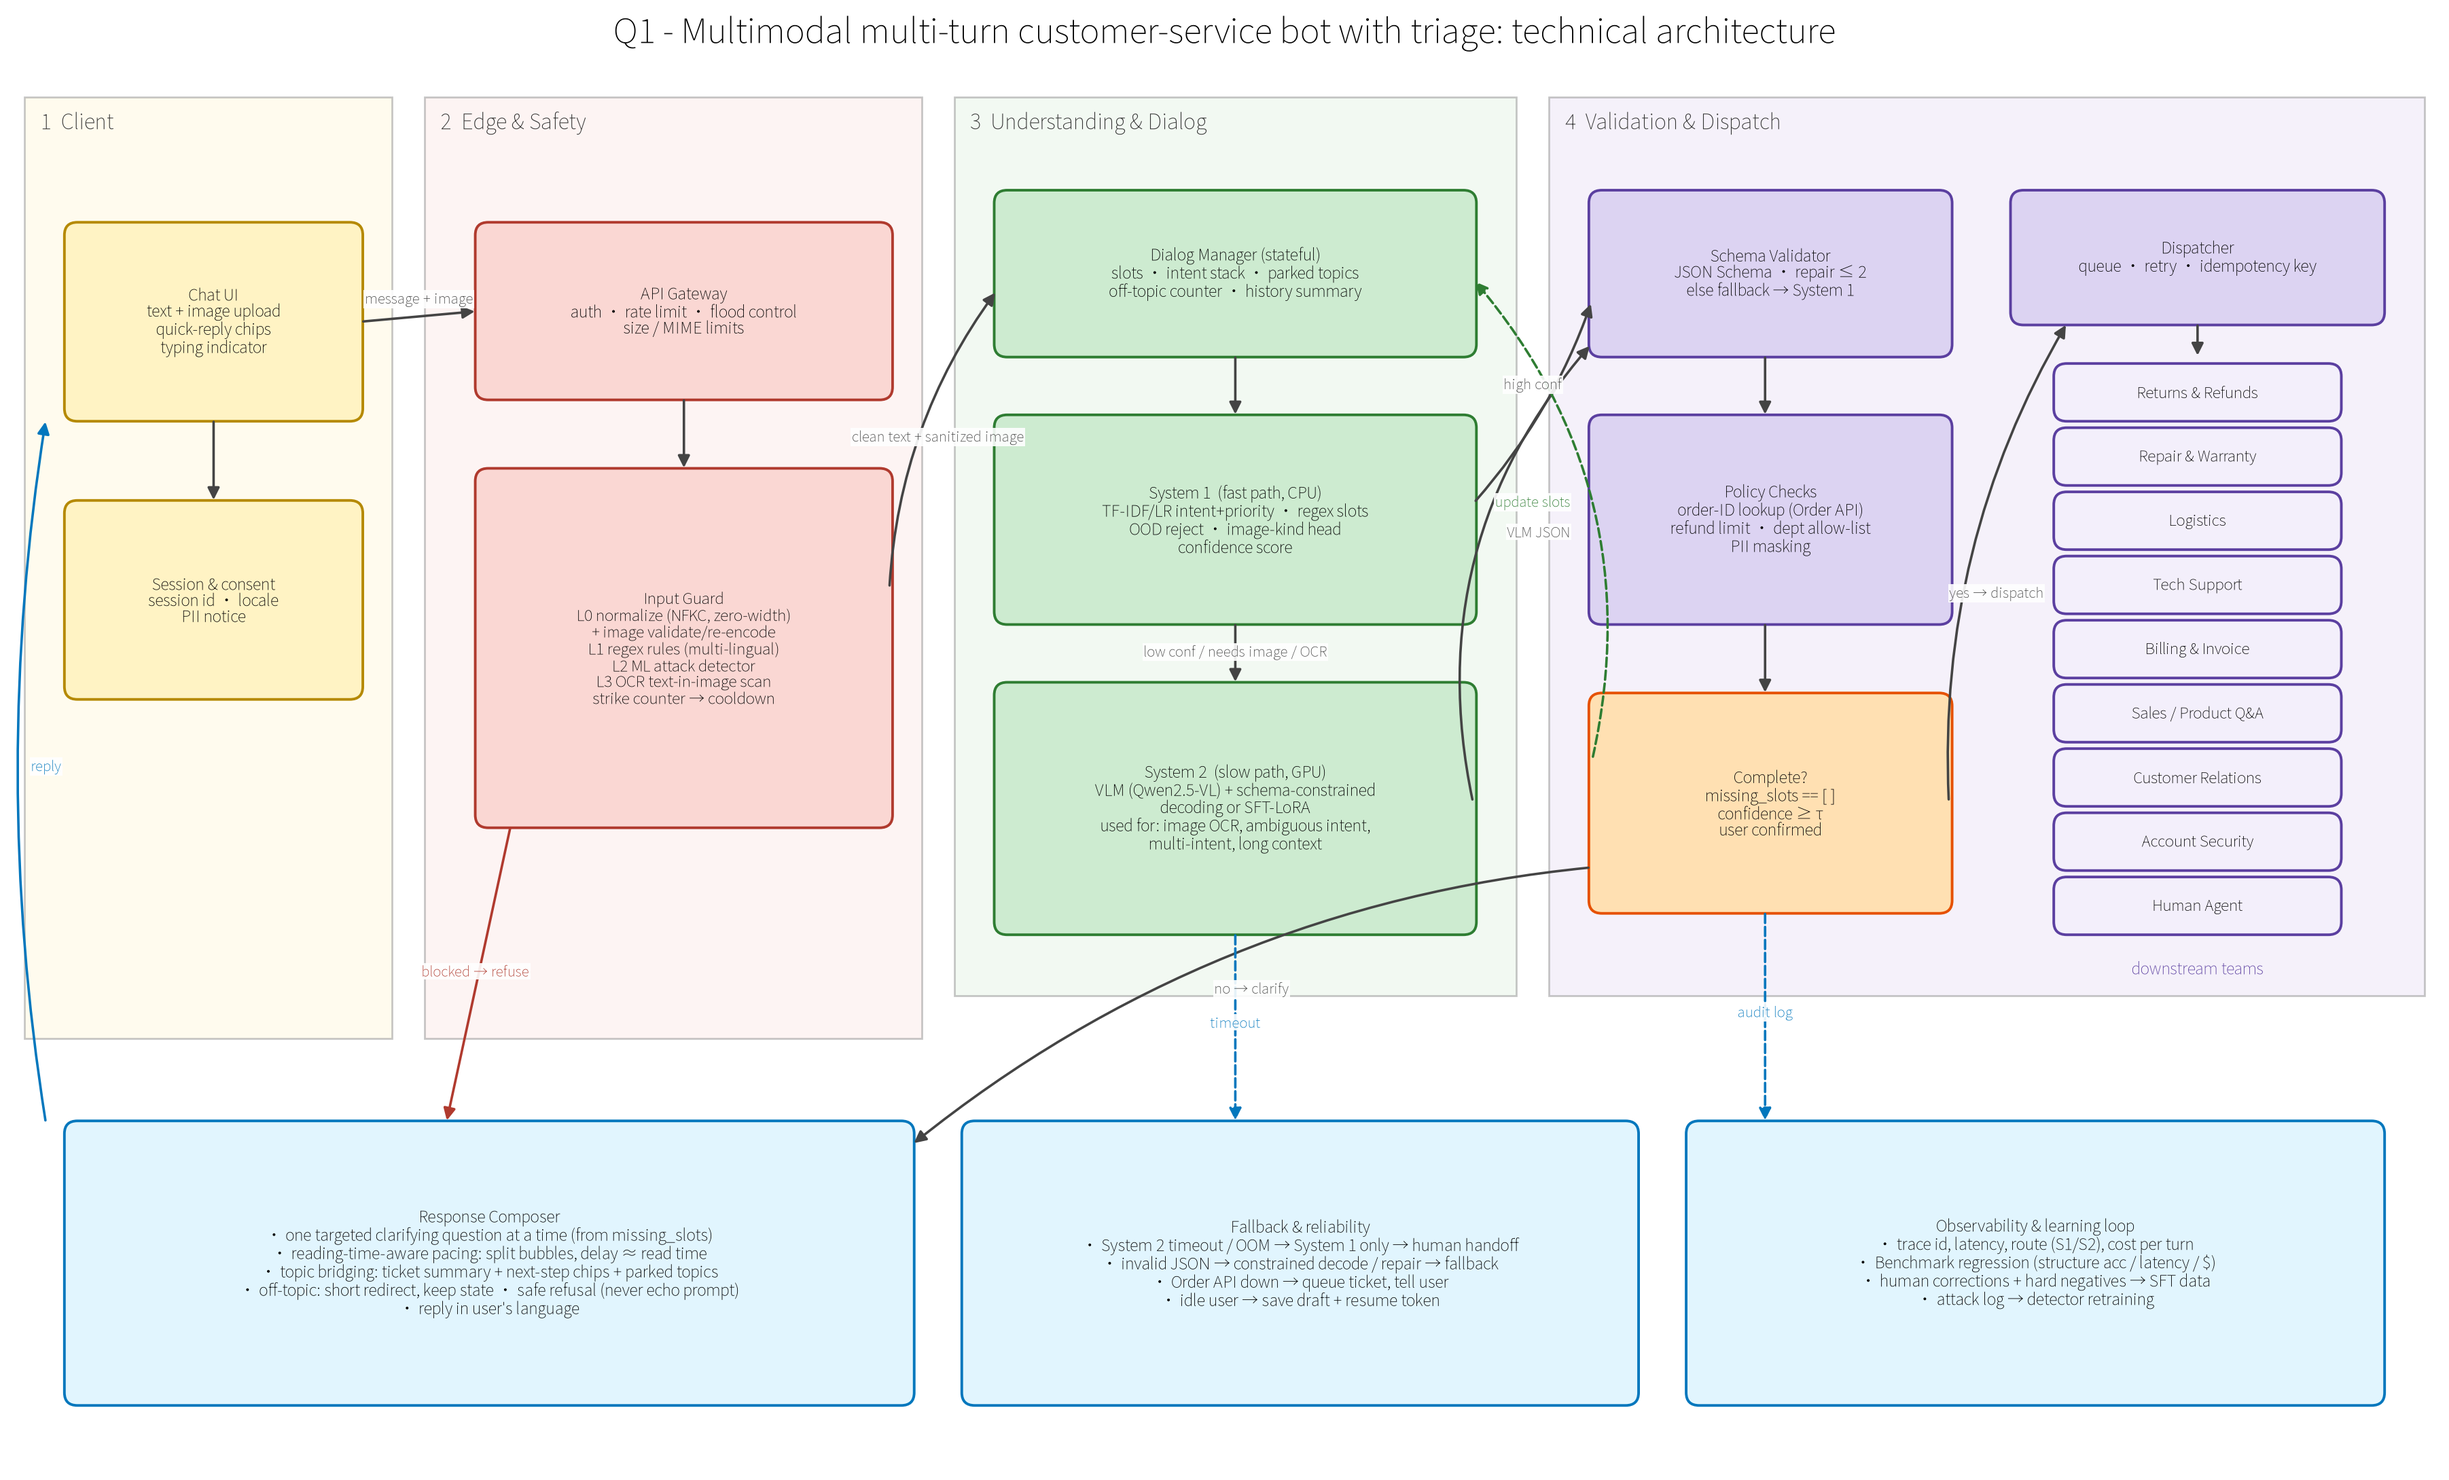
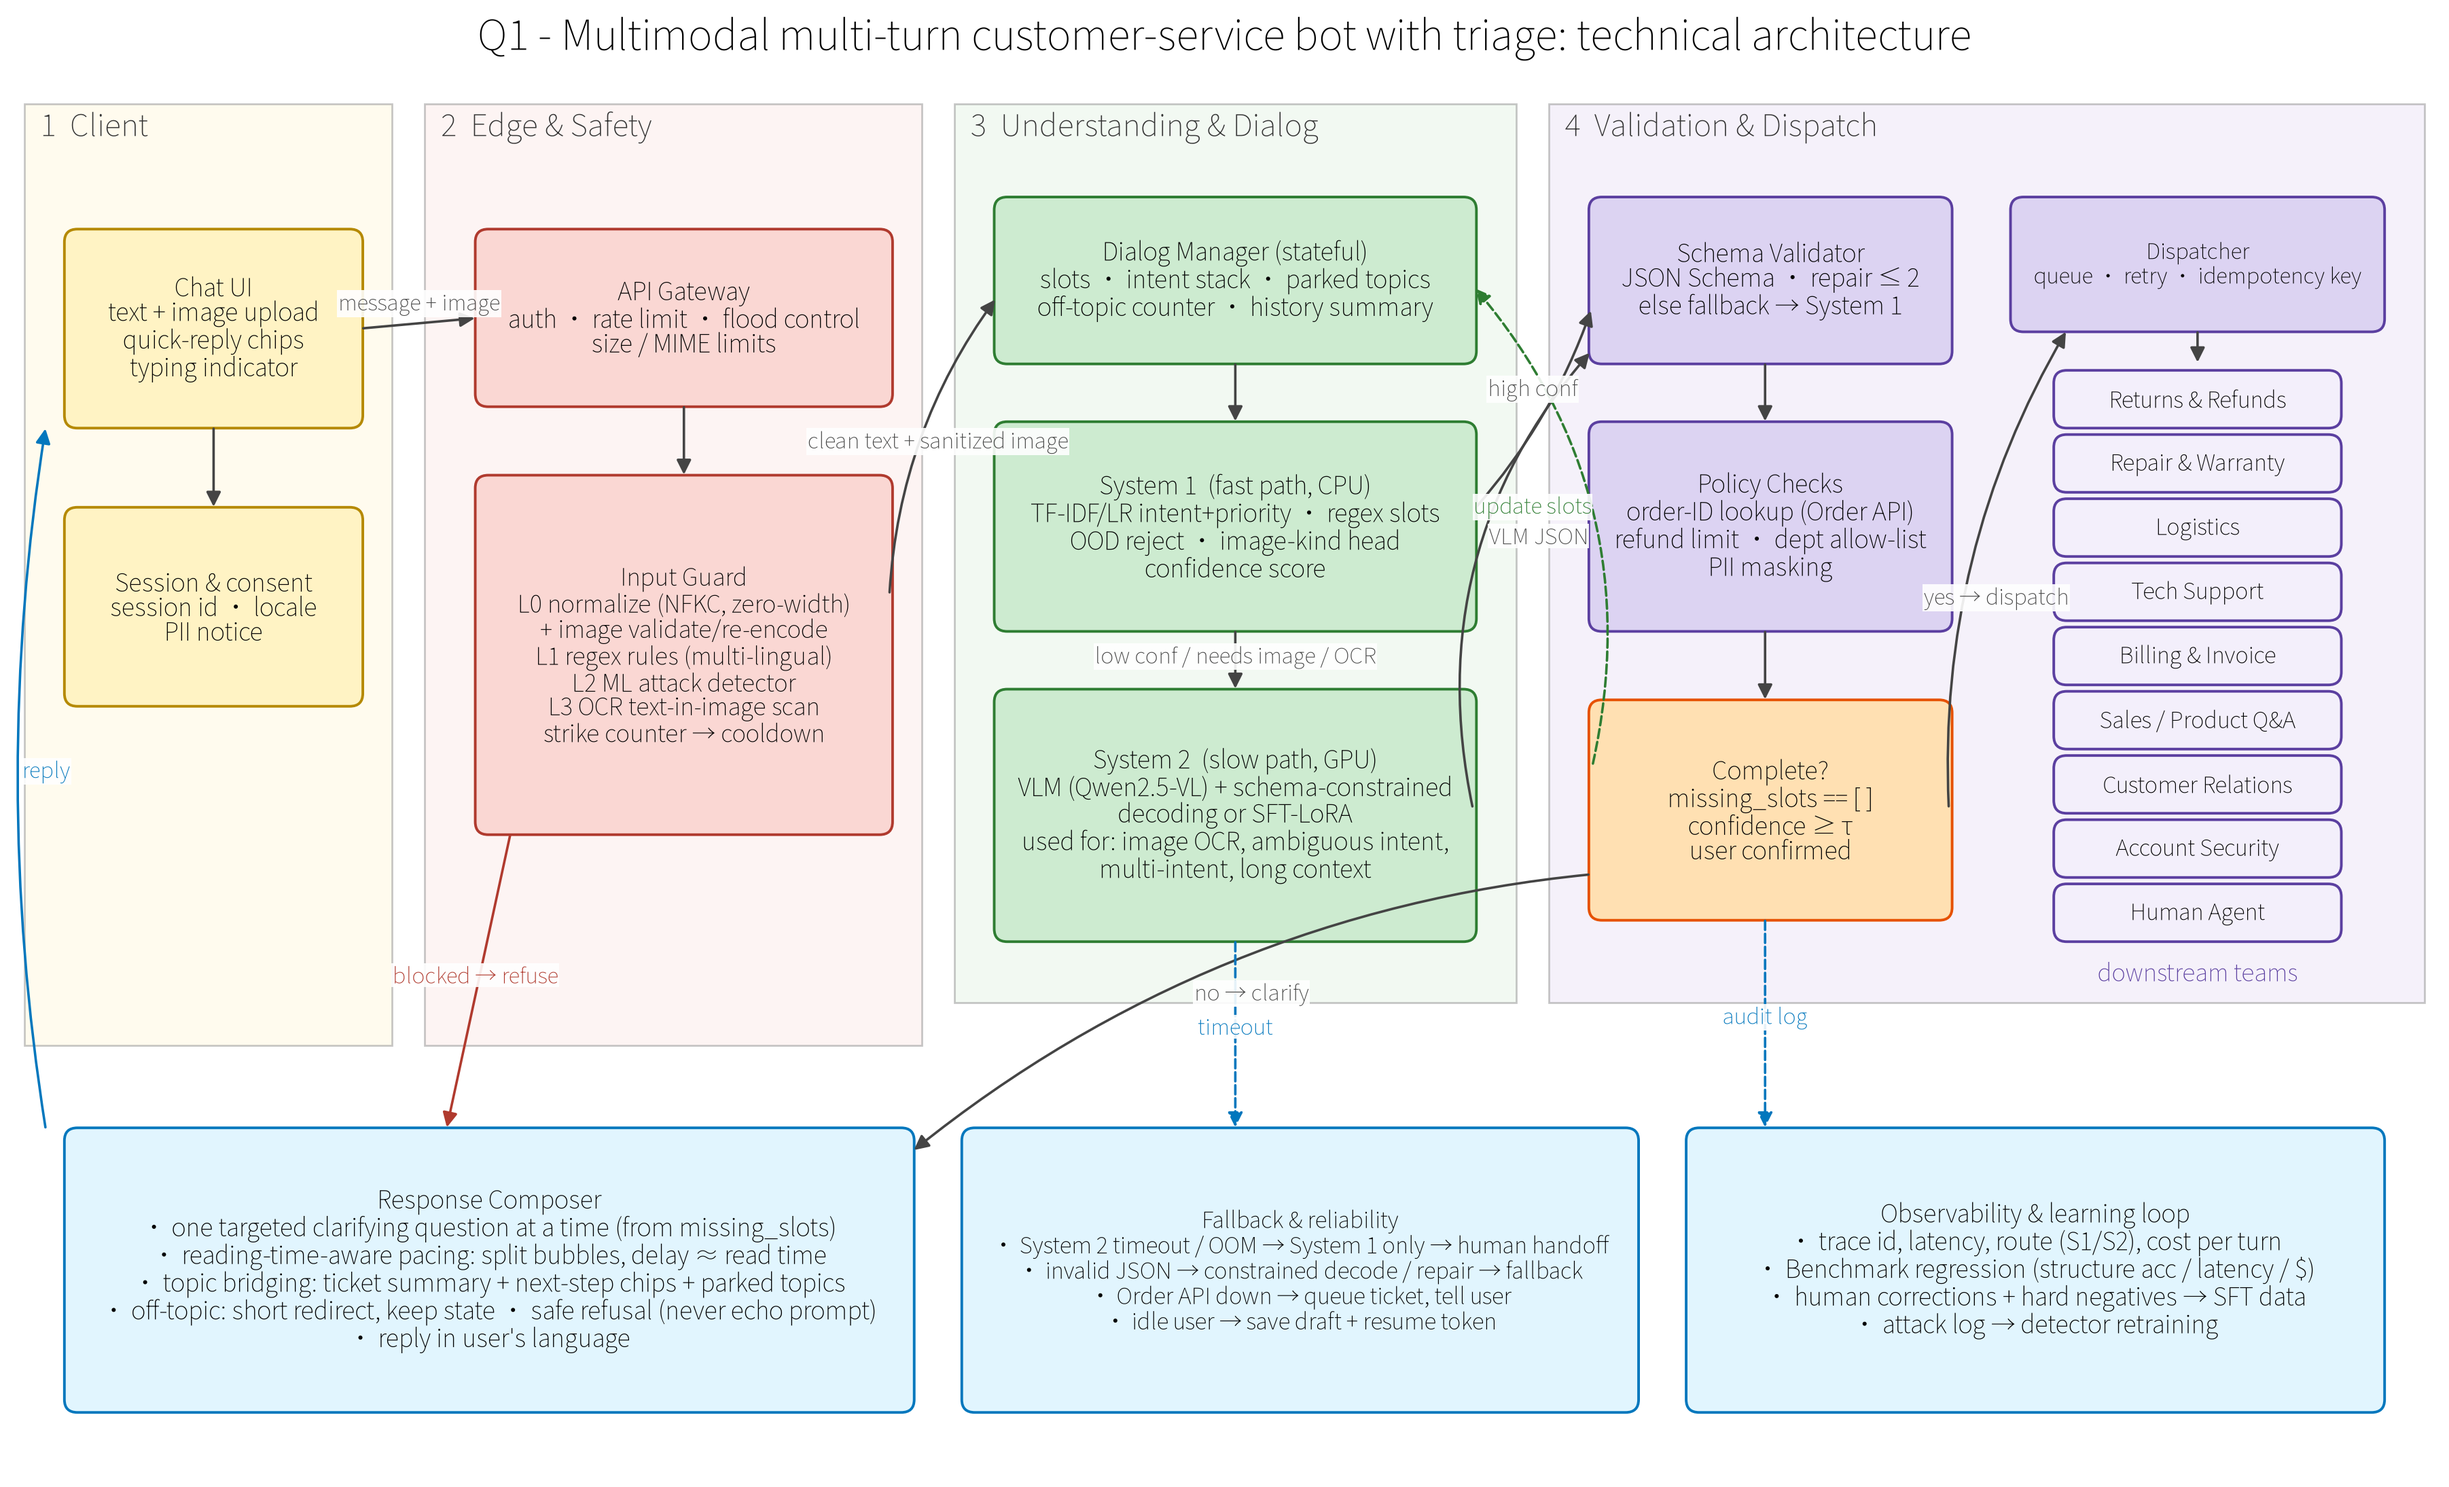
update README

diff --git a/week9/README.md b/week9/README.md
@@ -198,7 +198,17 @@ System 1 在 test 上只有 **13%** 的請求需要升級到 System 2；benchmar
 
 ### UI（Gradio）
 
-文字 + 圖片上傳、分段泡泡（含「⌛ …」輸入中提示）、快速回覆按鈕；右側面板即時顯示 **最後一次的結構化 payload**、**對話狀態**（話題、槽位、離題次數、strikes、走 System 1 或 System 2）與 **已派送工單**。`launch(share=True)` 會產生約 1 週有效的公開連結，展示完請關閉。
+文字 + 圖片上傳、分段泡泡（含「⌛ …」輸入中提示）、快速回覆按鈕；右側面板即時顯示 **最後一次的結構化 payload**、**對話狀態**（話題、槽位、離題次數、strikes、走 System 1 或 System 2）與 **已派送工單**。`launch(share=True)` 會產生約 1 週有效的公開連結。
+1. 分流
+![Q3_UI_diverting](Q3_UI_diverting.png)
+
+2. 多輪多模態
+![Q3_UI_mutimodal](Q3_UI_mutimodal.png)
+
+3. 邊角情境 + 中途換主題
+![Q3_UI_edge_case](Q3_UI_edge_case.jpg) 
+
+
 
 ### UX：考量使用者閱讀時間（Reading-time-aware pacing）
 
